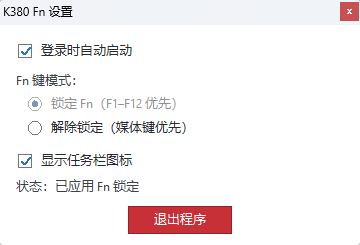
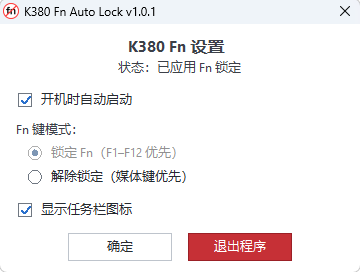
Polish settings controls and status layout

diff --git a/src/app/app_ui.c b/src/app/app_ui.c
@@ -13,14 +13,18 @@
 #define IDC_FN_UNLOCK_RADIO 103
 #define IDC_TRAY_CHECKBOX 104
 #define IDC_CLOSE_BUTTON 105
+#define IDC_OK_BUTTON 106
 #define IDM_OPEN_SETTINGS 201
 #define IDM_TOGGLE_STARTUP 202
 #define IDM_FN_LOCK 203
 #define IDM_FN_UNLOCK 204
 #define IDM_HIDE_TRAY 205
 #define IDM_EXIT_PROGRAM 206
+#define APP_VERSION L"v1.0.1"
 
 static const wchar_t settings_window_class[] = L"K380FnAutoLockSettingsWindow";
+static HFONT settings_title_font;
+
 static void apply_settings_font(HWND control)
 {
     if (control != NULL && g_app.settings_font != NULL)
@@ -36,6 +40,7 @@ static void draw_settings_button(const DRAWITEMSTRUCT *item)
     int disabled = (item->itemState & ODS_DISABLED) != 0;
     int is_radio = control_id == IDC_FN_LOCK_RADIO || control_id == IDC_FN_UNLOCK_RADIO;
     int is_close = control_id == IDC_CLOSE_BUTTON;
+    int is_ok = control_id == IDC_OK_BUTTON;
     HDC dc = item->hDC;
     HPEN pen;
     HGDIOBJ old_pen;
@@ -59,16 +64,18 @@ static void draw_settings_button(const DRAWITEMSTRUCT *item)
     if (g_app.settings_font != NULL)
         old_font = SelectObject(dc, g_app.settings_font);
 
-    if (is_close) {
-        HBRUSH button_brush = CreateSolidBrush((item->itemState & ODS_SELECTED)
-                                                   ? RGB(166, 37, 42)
-                                                   : RGB(198, 48, 54));
-        HBRUSH border_brush = CreateSolidBrush(RGB(155, 32, 38));
+    if (is_close || is_ok) {
+        COLORREF button_color = is_close
+            ? ((item->itemState & ODS_SELECTED) ? RGB(166, 37, 42) : RGB(198, 48, 54))
+            : ((item->itemState & ODS_SELECTED) ? RGB(240, 243, 247) : RGB(255, 255, 255));
+        COLORREF border_color = is_close ? RGB(155, 32, 38) : RGB(190, 196, 204);
+        HBRUSH button_brush = CreateSolidBrush(button_color);
+        HBRUSH border_brush = CreateSolidBrush(border_color);
         FillRect(dc, &rect, button_brush);
         FrameRect(dc, &rect, border_brush);
         DeleteObject(button_brush);
         DeleteObject(border_brush);
-        SetTextColor(dc, RGB(255, 255, 255));
+        SetTextColor(dc, is_close ? RGB(255, 255, 255) : RGB(38, 42, 48));
         rect.top += (item->itemState & ODS_SELECTED) ? 1 : 0;
         DrawTextW(dc, label, -1, &rect, DT_SINGLELINE | DT_VCENTER | DT_CENTER);
         if ((item->itemState & ODS_FOCUS) != 0)
@@ -163,15 +170,15 @@ static void app_ui_add_tray_icon(HWND window)
     icon.uFlags = NIF_MESSAGE | NIF_ICON | NIF_TIP;
     icon.uCallbackMessage = WM_APP_TRAY_CALLBACK;
     icon.hIcon = g_app.fn_tray_icon != NULL ? g_app.fn_tray_icon : LoadIconW(NULL, MAKEINTRESOURCEW(32512));
-    wcscpy(icon.szTip, L"K380 Fn Auto Lock");
+    wcscpy(icon.szTip, L"K380 Fn Auto Lock " APP_VERSION);
     g_app.tray_icon_added = Shell_NotifyIconW(NIM_ADD, &icon) != FALSE;
 }
 
 void app_ui_show_settings(void)
 {
-    RECT rect = {0, 0, 360, 220};
+    RECT rect = {0, 0, 360, 248};
     DWORD style = WS_CAPTION | WS_SYSMENU | WS_POPUP;
-    DWORD ex_style = WS_EX_TOOLWINDOW;
+    DWORD ex_style = WS_EX_APPWINDOW;
     int width;
     int height;
 
@@ -180,7 +187,7 @@ void app_ui_show_settings(void)
         width = rect.right - rect.left;
         height = rect.bottom - rect.top;
         g_app.settings_window = CreateWindowExW(ex_style, settings_window_class,
-                                          L"K380 Fn 设置", style,
+                                          L"K380 Fn Auto Lock " APP_VERSION, style,
                                           (GetSystemMetrics(SM_CXSCREEN) - width) / 2,
                                           (GetSystemMetrics(SM_CYSCREEN) - height) / 2,
                                           width, height, NULL, NULL, g_app.app_instance, NULL);
@@ -240,7 +247,7 @@ static void show_tray_menu(HWND window)
         return;
     AppendMenuW(menu, MF_STRING, IDM_OPEN_SETTINGS, L"打开设置");
     AppendMenuW(menu, MF_SEPARATOR, 0, NULL);
-    AppendMenuW(menu, startup_flags, IDM_TOGGLE_STARTUP, L"登录时自动启动");
+    AppendMenuW(menu, startup_flags, IDM_TOGGLE_STARTUP, L"开机时自动启动");
     AppendMenuW(menu, lock_flags, IDM_FN_LOCK, L"Fn 键锁定（F1–F12 优先）");
     AppendMenuW(menu, unlock_flags, IDM_FN_UNLOCK, L"解除 Fn 锁定（媒体键优先）");
     AppendMenuW(menu, MF_SEPARATOR, 0, NULL);
@@ -263,8 +270,12 @@ static LRESULT CALLBACK settings_window_proc(HWND window, UINT message, WPARAM w
     case WM_CREATE:
         {
             HDC dc = GetDC(window);
-            int font_height = dc != NULL ? -MulDiv(9, GetDeviceCaps(dc, LOGPIXELSY), 72) : -12;
+            int dpi_y = dc != NULL ? GetDeviceCaps(dc, LOGPIXELSY) : 96;
+            int font_height = -MulDiv(9, dpi_y, 72);
+            int title_font_height = -MulDiv(11, dpi_y, 72);
+            HWND title_label;
             HWND label;
+            HWND ok_button;
             HWND close_button;
 
             if (dc != NULL)
@@ -275,31 +286,44 @@ static LRESULT CALLBACK settings_window_proc(HWND window, UINT message, WPARAM w
             g_app.owns_settings_font = g_app.settings_font != NULL;
             if (g_app.settings_font == NULL)
                 g_app.settings_font = (HFONT)GetStockObject(DEFAULT_GUI_FONT);
+            settings_title_font = CreateFontW(title_font_height, 0, 0, 0, FW_BOLD, FALSE, FALSE, FALSE,
+                                        DEFAULT_CHARSET, OUT_DEFAULT_PRECIS, CLIP_DEFAULT_PRECIS,
+                                        CLEARTYPE_QUALITY, DEFAULT_PITCH | FF_DONTCARE, L"Segoe UI");
 
-        g_app.startup_checkbox = CreateWindowExW(0, L"BUTTON", L"登录时自动启动",
+        title_label = CreateWindowExW(0, L"STATIC", L"K380 Fn 设置",
+            WS_CHILD | WS_VISIBLE | SS_CENTER | SS_CENTERIMAGE,
+            16, 10, 320, 24, window, NULL, g_app.app_instance, NULL);
+        g_app.status_label = CreateWindowExW(0, L"STATIC", L"", WS_CHILD | WS_VISIBLE | SS_CENTER,
+            16, 36, 328, 20, window, NULL, g_app.app_instance, NULL);
+        g_app.startup_checkbox = CreateWindowExW(0, L"BUTTON", L"开机时自动启动",
             WS_CHILD | WS_VISIBLE | WS_TABSTOP | BS_OWNERDRAW,
-            16, 14, 300, 24, window, (HMENU)(INT_PTR)IDC_STARTUP_CHECKBOX, g_app.app_instance, NULL);
+            16, 64, 300, 24, window, (HMENU)(INT_PTR)IDC_STARTUP_CHECKBOX, g_app.app_instance, NULL);
         label = CreateWindowExW(0, L"STATIC", L"Fn 键模式：", WS_CHILD | WS_VISIBLE,
-            16, 48, 100, 20, window, NULL, g_app.app_instance, NULL);
+            16, 98, 100, 20, window, NULL, g_app.app_instance, NULL);
         g_app.fn_lock_radio = CreateWindowExW(0, L"BUTTON", L"锁定 Fn（F1–F12 优先）",
             WS_CHILD | WS_VISIBLE | WS_TABSTOP | WS_GROUP | BS_OWNERDRAW,
-            26, 68, 280, 22, window, (HMENU)(INT_PTR)IDC_FN_LOCK_RADIO, g_app.app_instance, NULL);
+            26, 118, 280, 22, window, (HMENU)(INT_PTR)IDC_FN_LOCK_RADIO, g_app.app_instance, NULL);
         g_app.fn_unlock_radio = CreateWindowExW(0, L"BUTTON", L"解除锁定（媒体键优先）",
             WS_CHILD | WS_VISIBLE | WS_TABSTOP | BS_OWNERDRAW,
-            26, 92, 280, 22, window, (HMENU)(INT_PTR)IDC_FN_UNLOCK_RADIO, g_app.app_instance, NULL);
+            26, 142, 280, 22, window, (HMENU)(INT_PTR)IDC_FN_UNLOCK_RADIO, g_app.app_instance, NULL);
         g_app.tray_checkbox = CreateWindowExW(0, L"BUTTON", L"显示任务栏图标",
             WS_CHILD | WS_VISIBLE | WS_TABSTOP | BS_OWNERDRAW,
-            16, 124, 300, 24, window, (HMENU)(INT_PTR)IDC_TRAY_CHECKBOX, g_app.app_instance, NULL);
-        g_app.status_label = CreateWindowExW(0, L"STATIC", L"", WS_CHILD | WS_VISIBLE | SS_LEFT,
-            16, 154, 325, 20, window, NULL, g_app.app_instance, NULL);
+            16, 174, 300, 24, window, (HMENU)(INT_PTR)IDC_TRAY_CHECKBOX, g_app.app_instance, NULL);
+        ok_button = CreateWindowExW(0, L"BUTTON", L"确定", WS_CHILD | WS_VISIBLE | WS_TABSTOP | BS_OWNERDRAW,
+            68, 209, 104, 28, window, (HMENU)(INT_PTR)IDC_OK_BUTTON, g_app.app_instance, NULL);
         close_button = CreateWindowExW(0, L"BUTTON", L"退出程序", WS_CHILD | WS_VISIBLE | WS_TABSTOP | BS_OWNERDRAW,
-            128, 181, 104, 28, window, (HMENU)(INT_PTR)IDC_CLOSE_BUTTON, g_app.app_instance, NULL);
+            188, 209, 104, 28, window, (HMENU)(INT_PTR)IDC_CLOSE_BUTTON, g_app.app_instance, NULL);
+        if (settings_title_font != NULL)
+            SendMessageW(title_label, WM_SETFONT, (WPARAM)settings_title_font, TRUE);
+        else
+            apply_settings_font(title_label);
         apply_settings_font(g_app.startup_checkbox);
         apply_settings_font(label);
         apply_settings_font(g_app.fn_lock_radio);
         apply_settings_font(g_app.fn_unlock_radio);
         apply_settings_font(g_app.tray_checkbox);
         apply_settings_font(g_app.status_label);
+        apply_settings_font(ok_button);
         apply_settings_font(close_button);
         app_ui_update();
         return 0;
@@ -337,6 +361,9 @@ static LRESULT CALLBACK settings_window_proc(HWND window, UINT message, WPARAM w
         case IDC_TRAY_CHECKBOX:
             app_runtime_set_tray_visibility(!g_app.show_tray_icon);
             return 0;
+        case IDC_OK_BUTTON:
+            DestroyWindow(window);
+            return 0;
         case IDC_CLOSE_BUTTON:
             if (MessageBoxW(window,
                             L"确定要退出程序吗？退出后，Fn 设置将不再自动恢复。",
@@ -351,6 +378,9 @@ static LRESULT CALLBACK settings_window_proc(HWND window, UINT message, WPARAM w
         DestroyWindow(window);
         return 0;
     case WM_DESTROY:
+        if (settings_title_font != NULL)
+            DeleteObject(settings_title_font);
+        settings_title_font = NULL;
         if (g_app.owns_settings_font && g_app.settings_font != NULL)
             DeleteObject(g_app.settings_font);
         g_app.settings_font = NULL;
